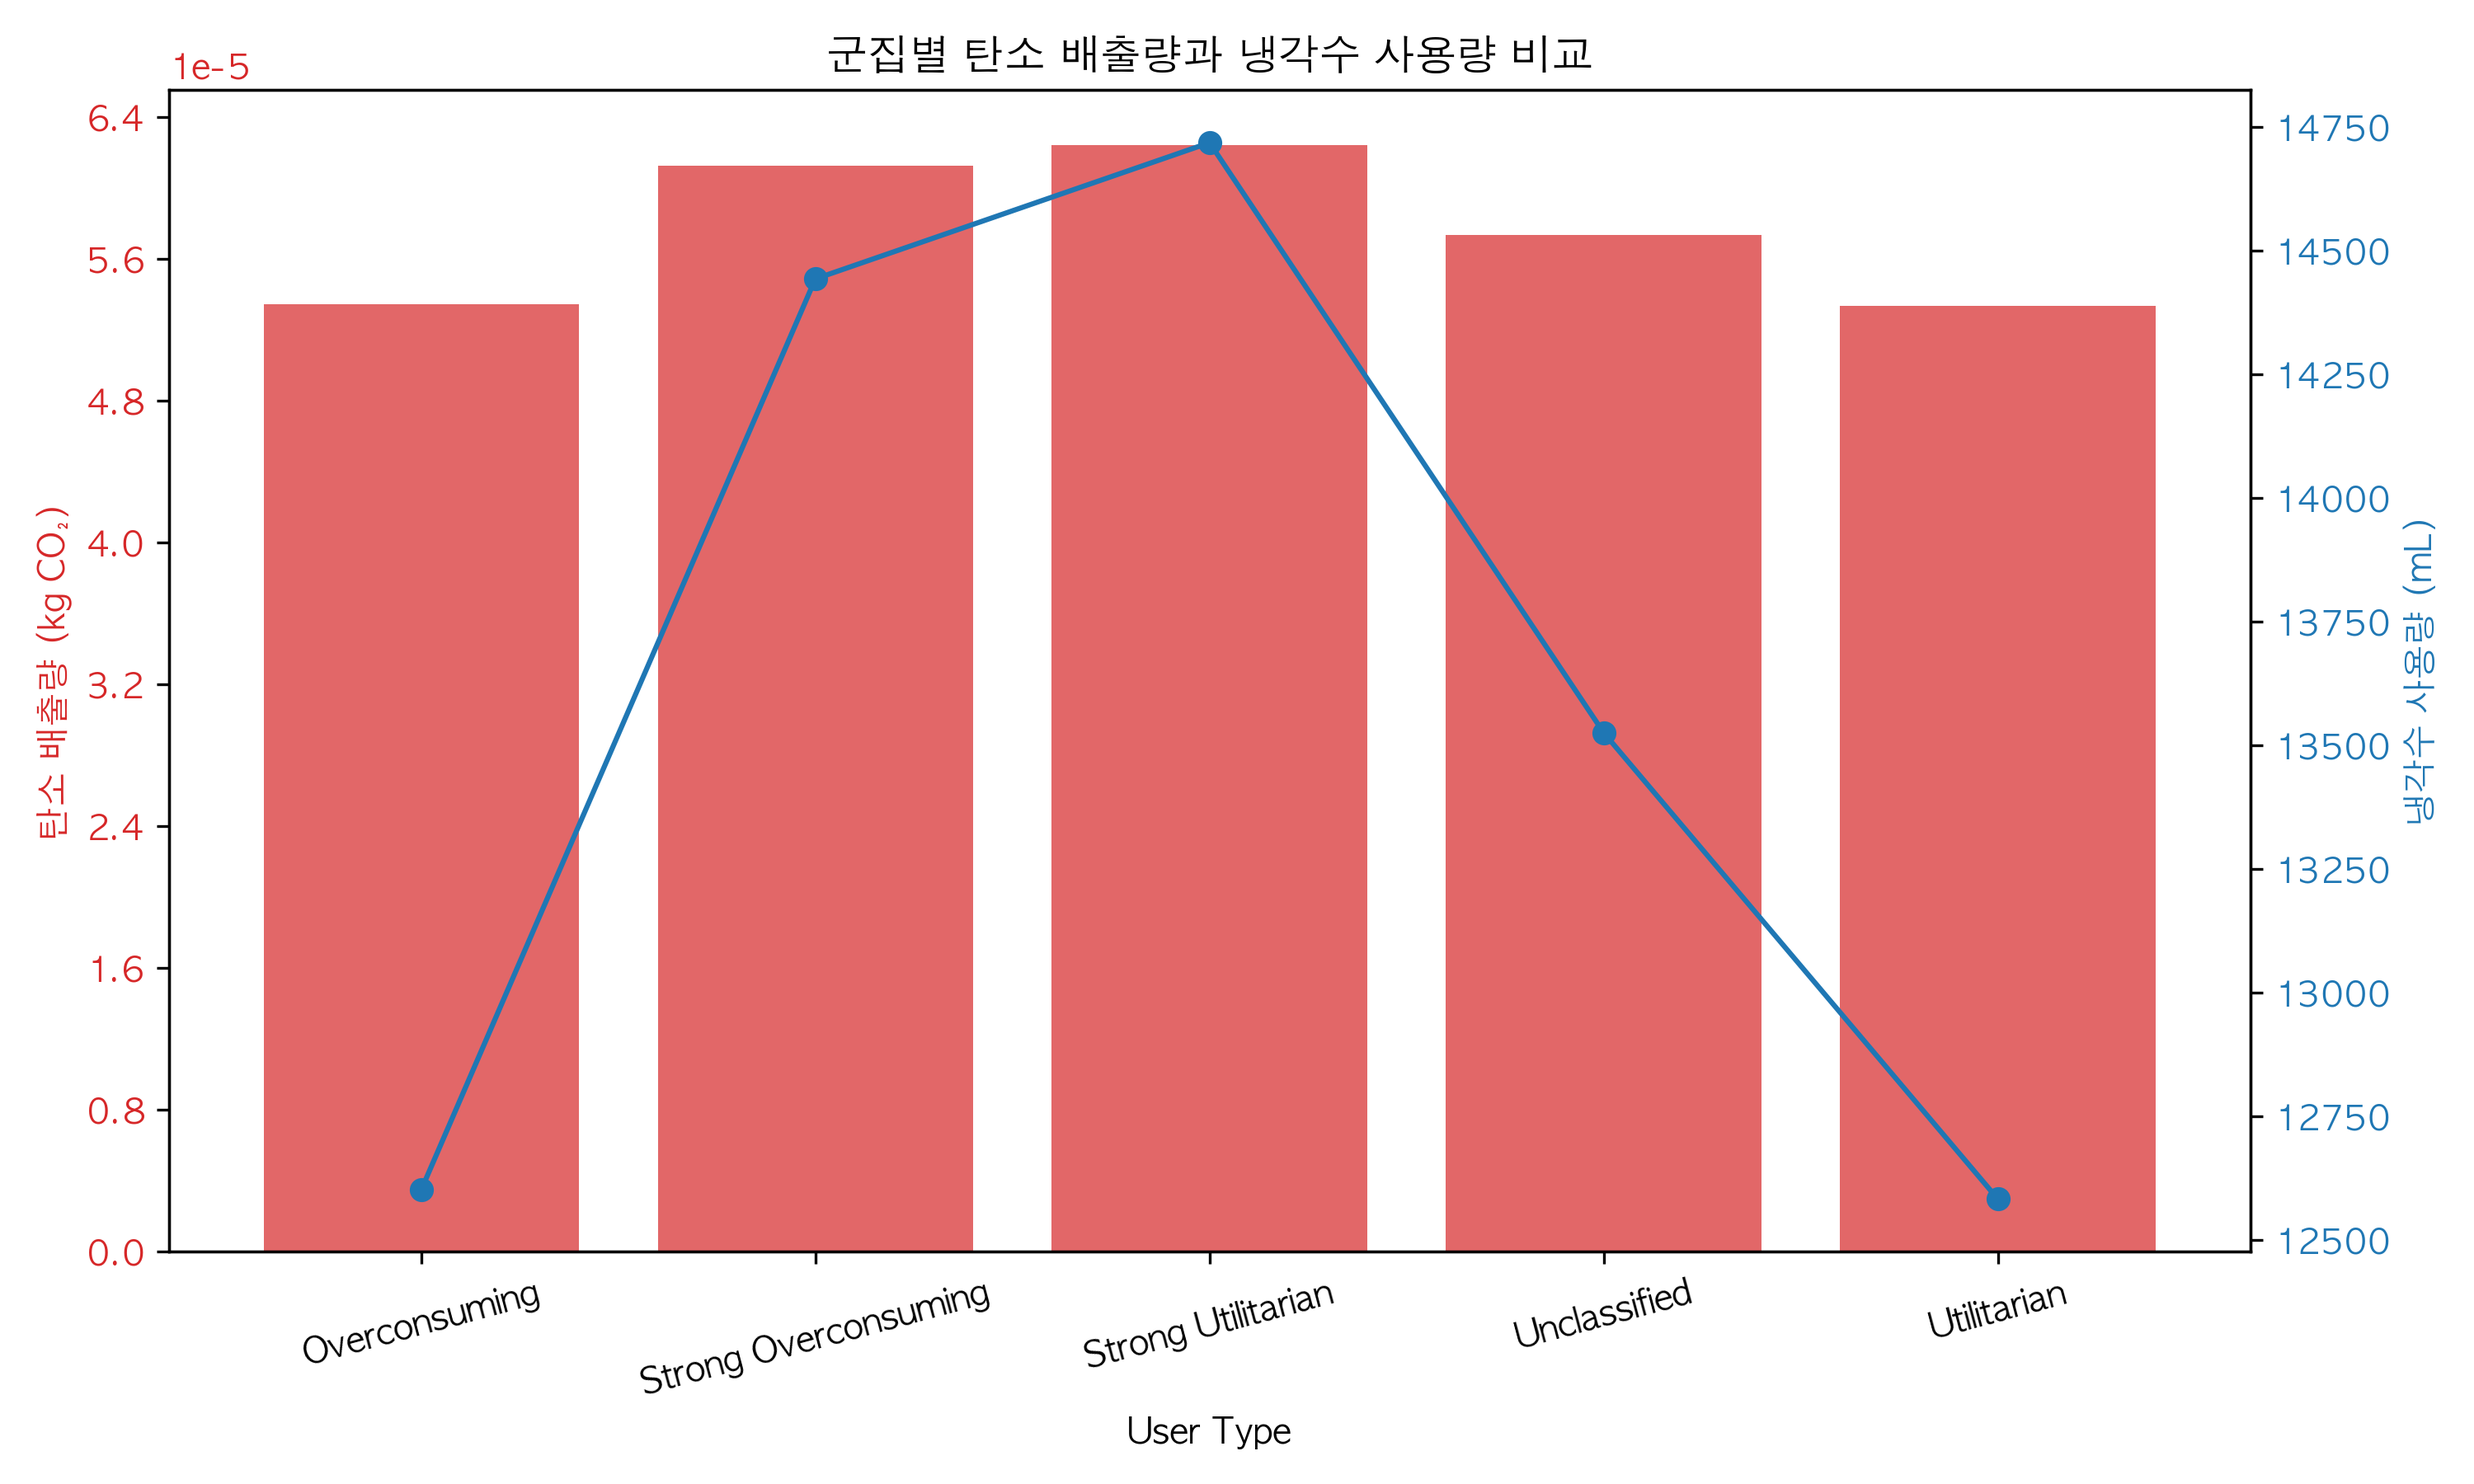
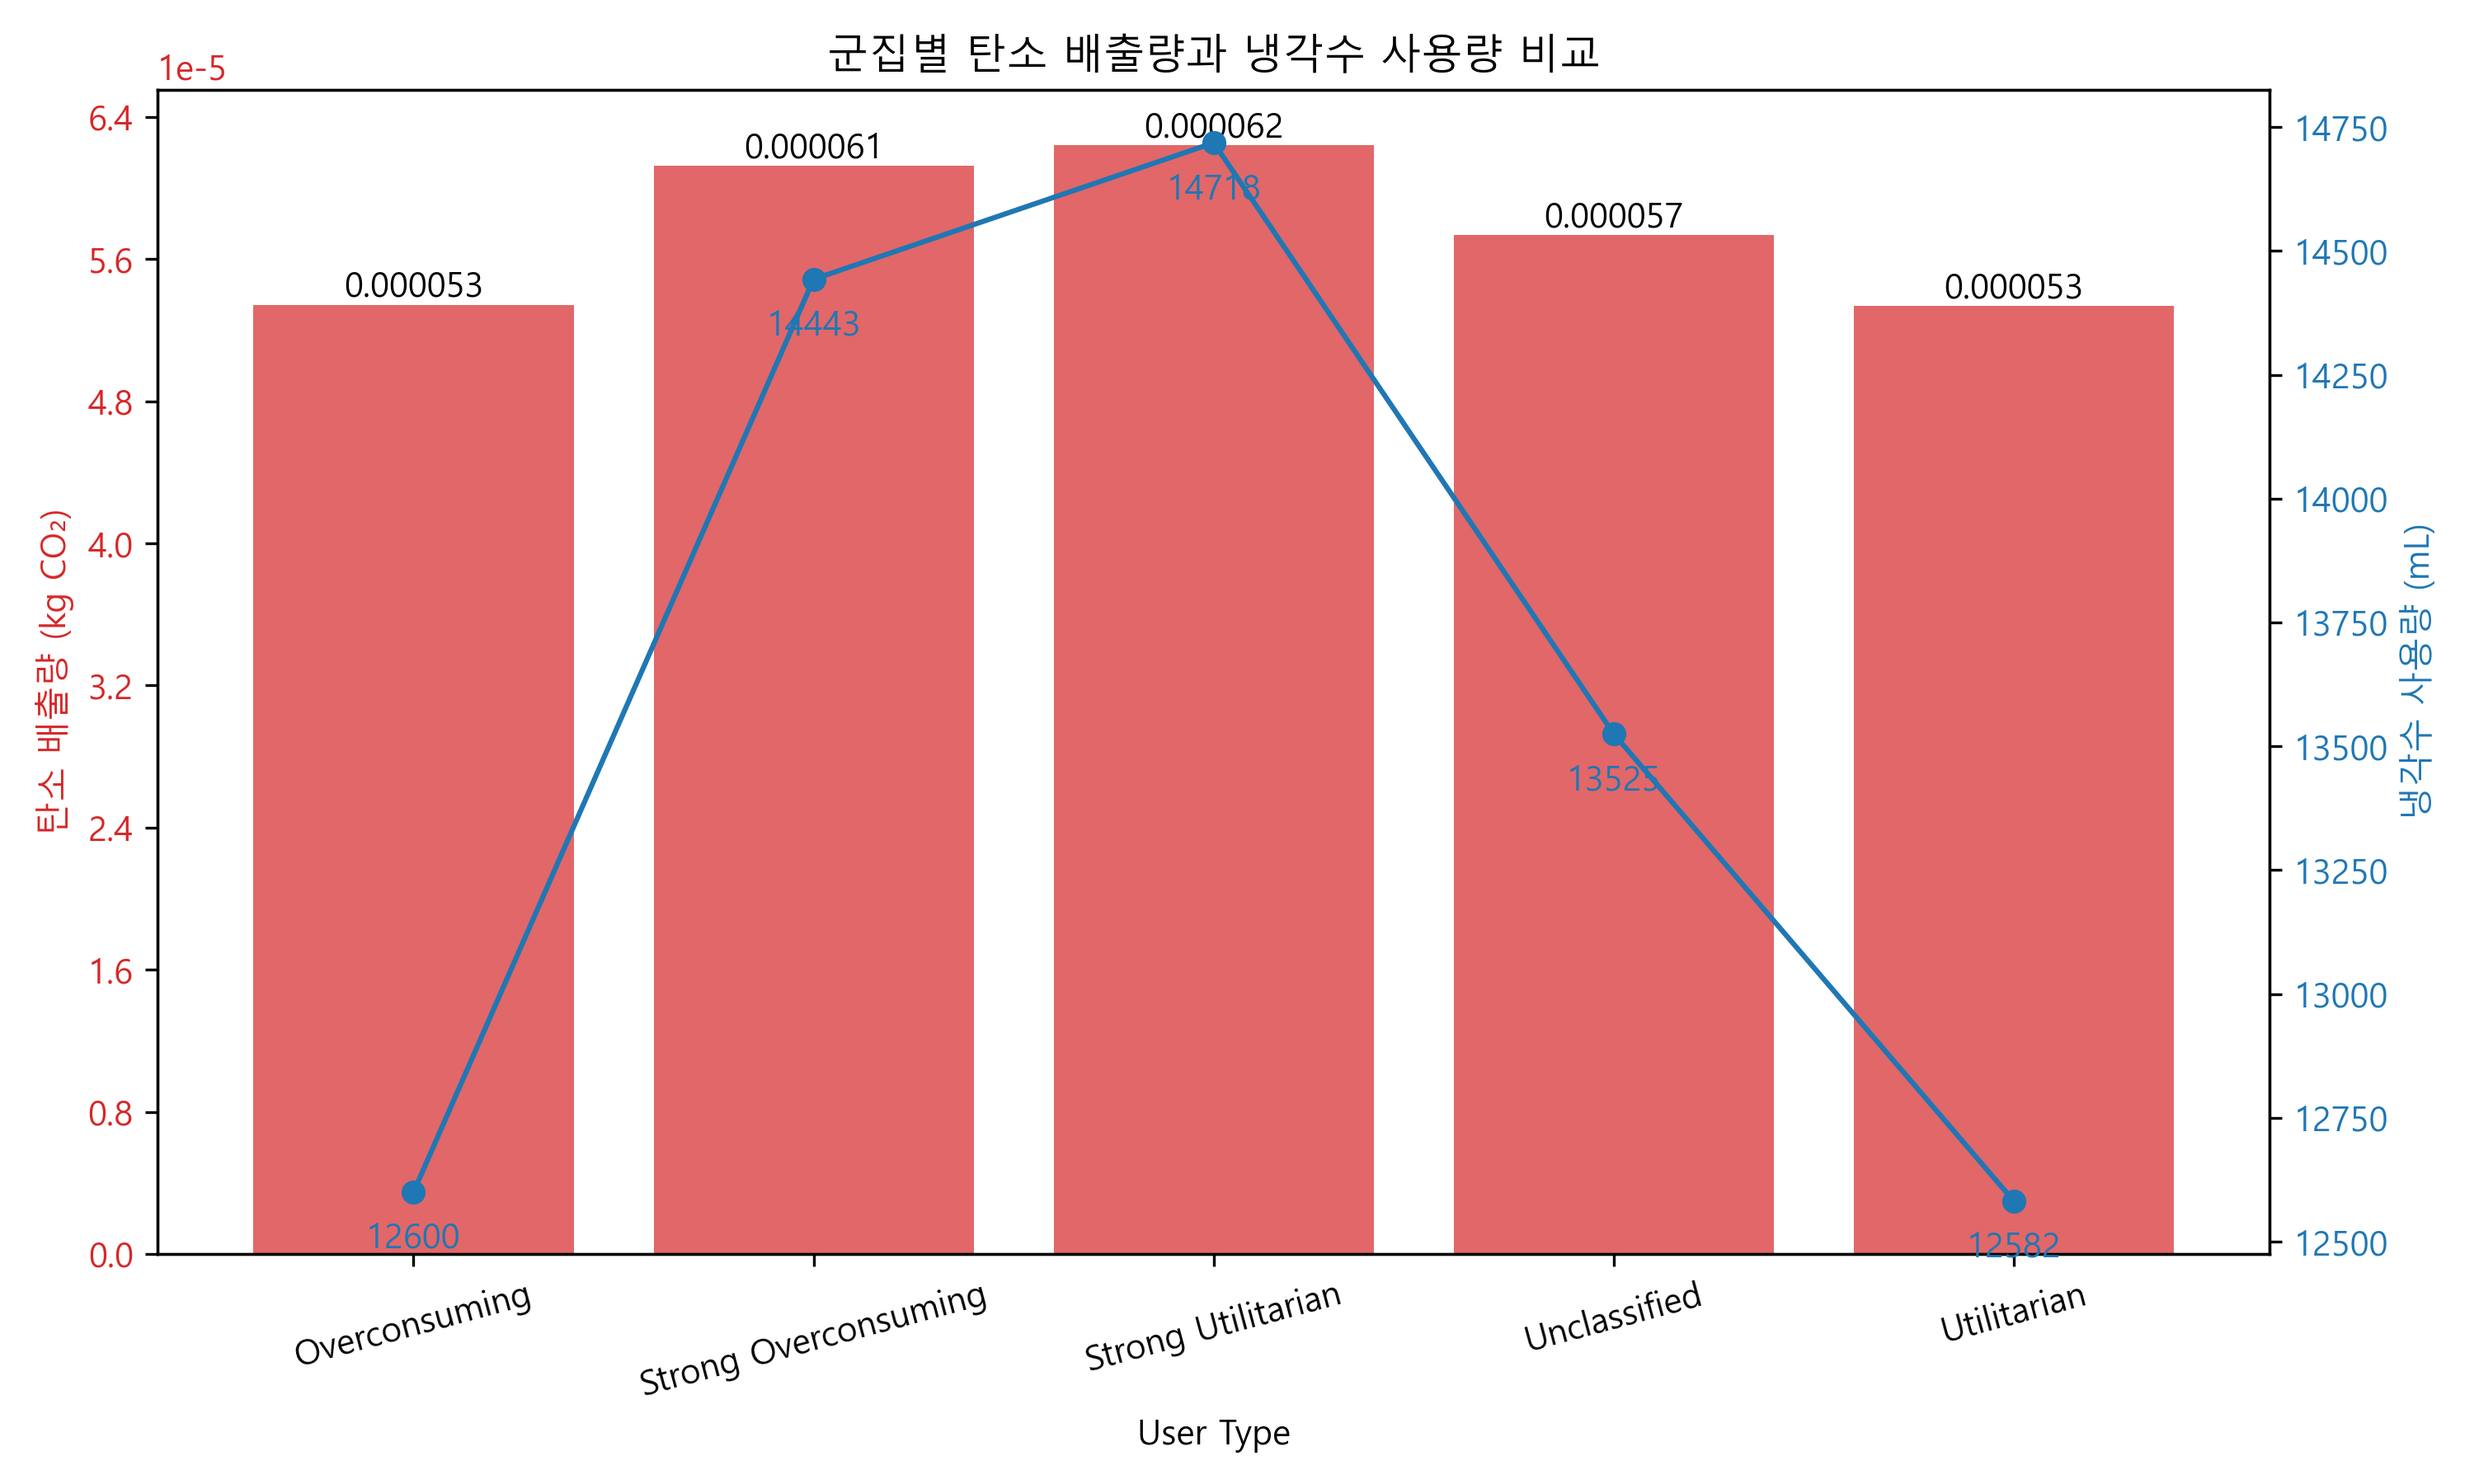
그래프에 수치 추가

diff --git a/Step3/resource_consumption_visualization.py b/Step3/resource_consumption_visualization.py
@@ -5,7 +5,7 @@ from matplotlib.ticker import ScalarFormatter, MaxNLocator
 from matplotlib import rc
 
 # 한글 폰트 설정
-rc('font', family='AppleGothic')  
+rc('font', family='Malgun Gothic')  
 
 # 그래프 출력할 때, 한글 글자가 깨지지 않게 설정
 plt.rcParams['axes.unicode_minus'] = False
@@ -28,7 +28,19 @@ fig, ax1 = plt.subplots(figsize=(10, 6))
 # 첫 번째 Y축: 탄소 배출량 (막대그래프)
 bars = ax1.bar(x, carbon_values, color='tab:red', alpha=0.7, label='탄소 배출량 (kg CO₂)')
 
-# 축 설정
+# 막대 위에 수치 표시
+for bar in bars:
+    height = bar.get_height()
+    ax1.text(
+        bar.get_x() + bar.get_width() / 2,
+        height,
+        f'{height:.6f}',  # 6자리까지 표시
+        ha='center',
+        va='bottom',
+        fontsize=10,
+        color='black'
+    )
+
 ax1.set_xlabel("User Type")
 ax1.set_ylabel("탄소 배출량 (kg CO₂)", color='tab:red')
 ax1.set_xticks(x)
@@ -36,15 +48,28 @@ ax1.set_xticklabels(labels, rotation=15)
 ax1.tick_params(axis='y', labelcolor='tab:red')
 
 # 두 번째 Y축 (냉각수 사용량)
-ax2 = ax1.twinx()  
+ax2 = ax1.twinx()
 ax2.plot(x, cooling_values, color='tab:blue', marker='o', label='냉각수 사용량 (mL)')
 ax2.set_ylabel("냉각수 사용량 (mL)", color='tab:blue')
 ax2.tick_params(axis='y', labelcolor='tab:blue')
 
-ax1.yaxis.set_major_locator(MaxNLocator(integer=True))  
-ax2.yaxis.set_major_locator(MaxNLocator(integer=True))  
+# 냉각수 사용량 값도 점 위에 표시
+# 냉각수 사용량 값도 점 **아래에** 표시
+for i, value in enumerate(cooling_values):
+    ax2.text(
+        x[i],
+        value - 60,  # 값보다 아래쪽에 위치 (숫자 조정 가능)
+        f'{value:.0f}',
+        ha='center',
+        va='top',      # 위에서 아래 방향으로 정렬
+        fontsize=10,
+        color='tab:blue'
+    )
 
+
+ax1.yaxis.set_major_locator(MaxNLocator(integer=True))
+ax2.yaxis.set_major_locator(MaxNLocator(integer=True))
 
 plt.title("군집별 탄소 배출량과 냉각수 사용량 비교")
-plt.tight_layout() 
-plt.savefig("Step3/resource_comparison_carbon_and_cooling.png", dpi=300)  
+plt.tight_layout()
+plt.savefig("Step3/resource_comparison_carbon_and_cooling.png", dpi=300)
